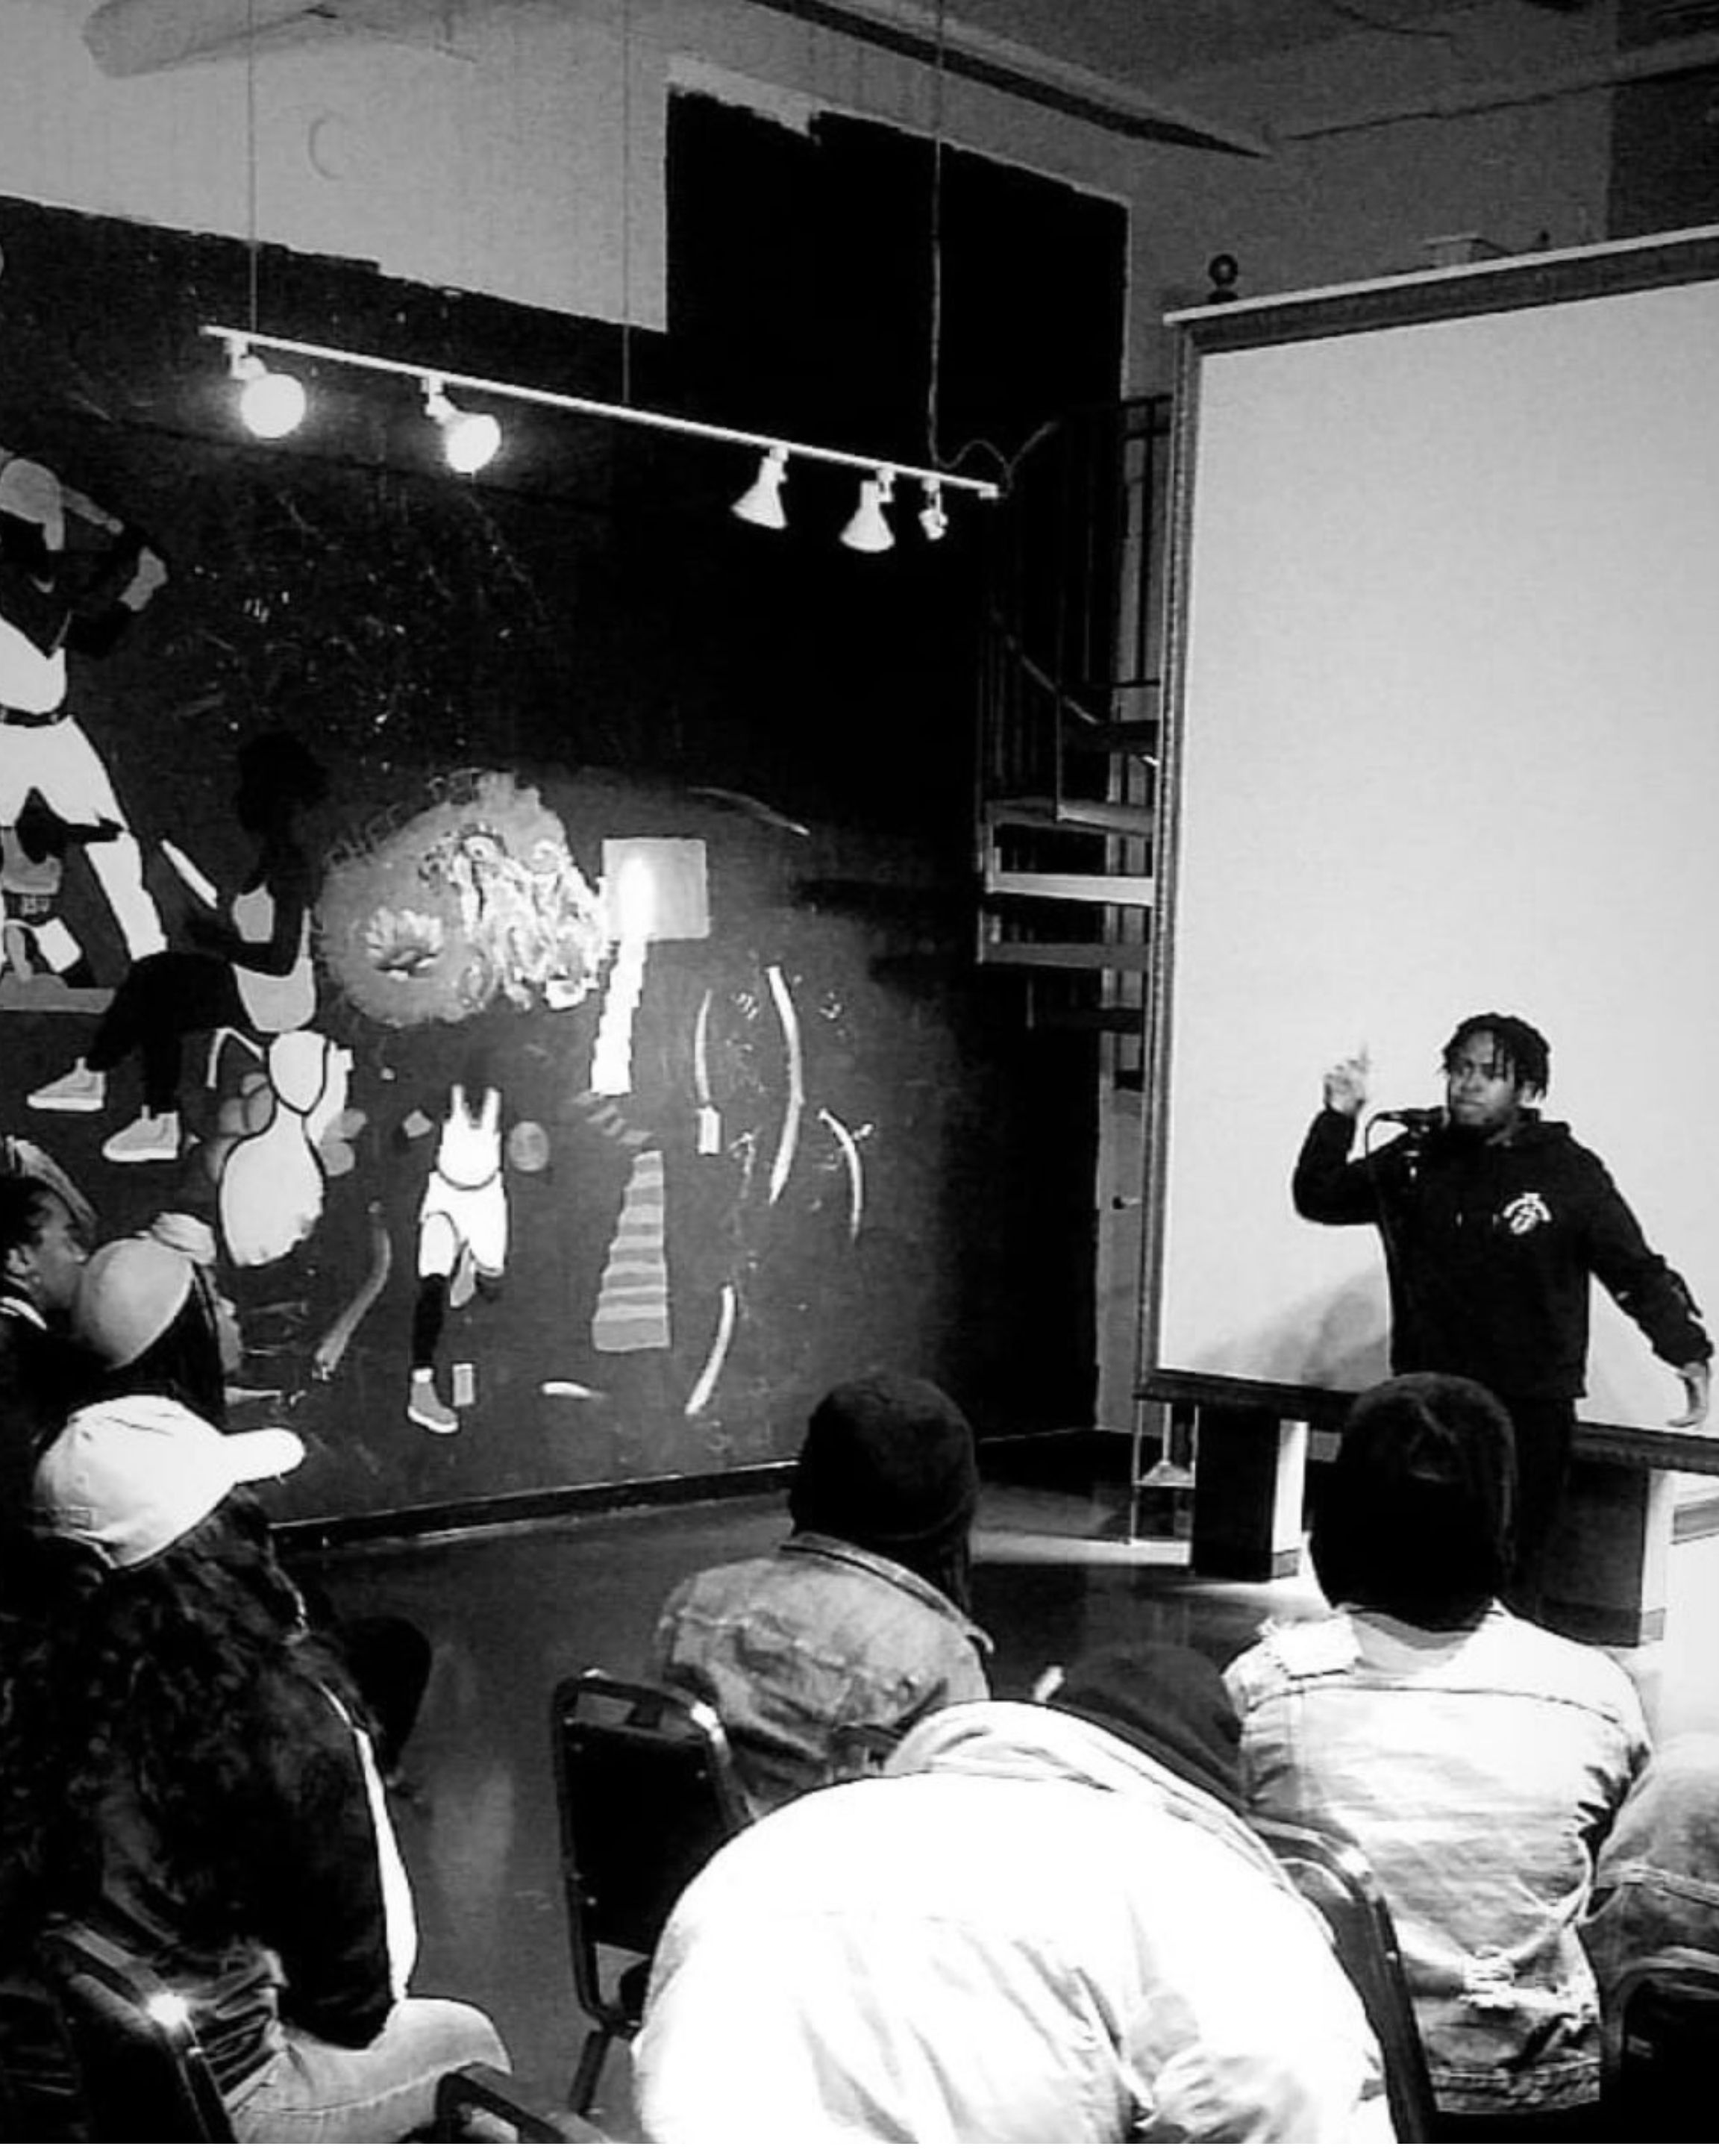
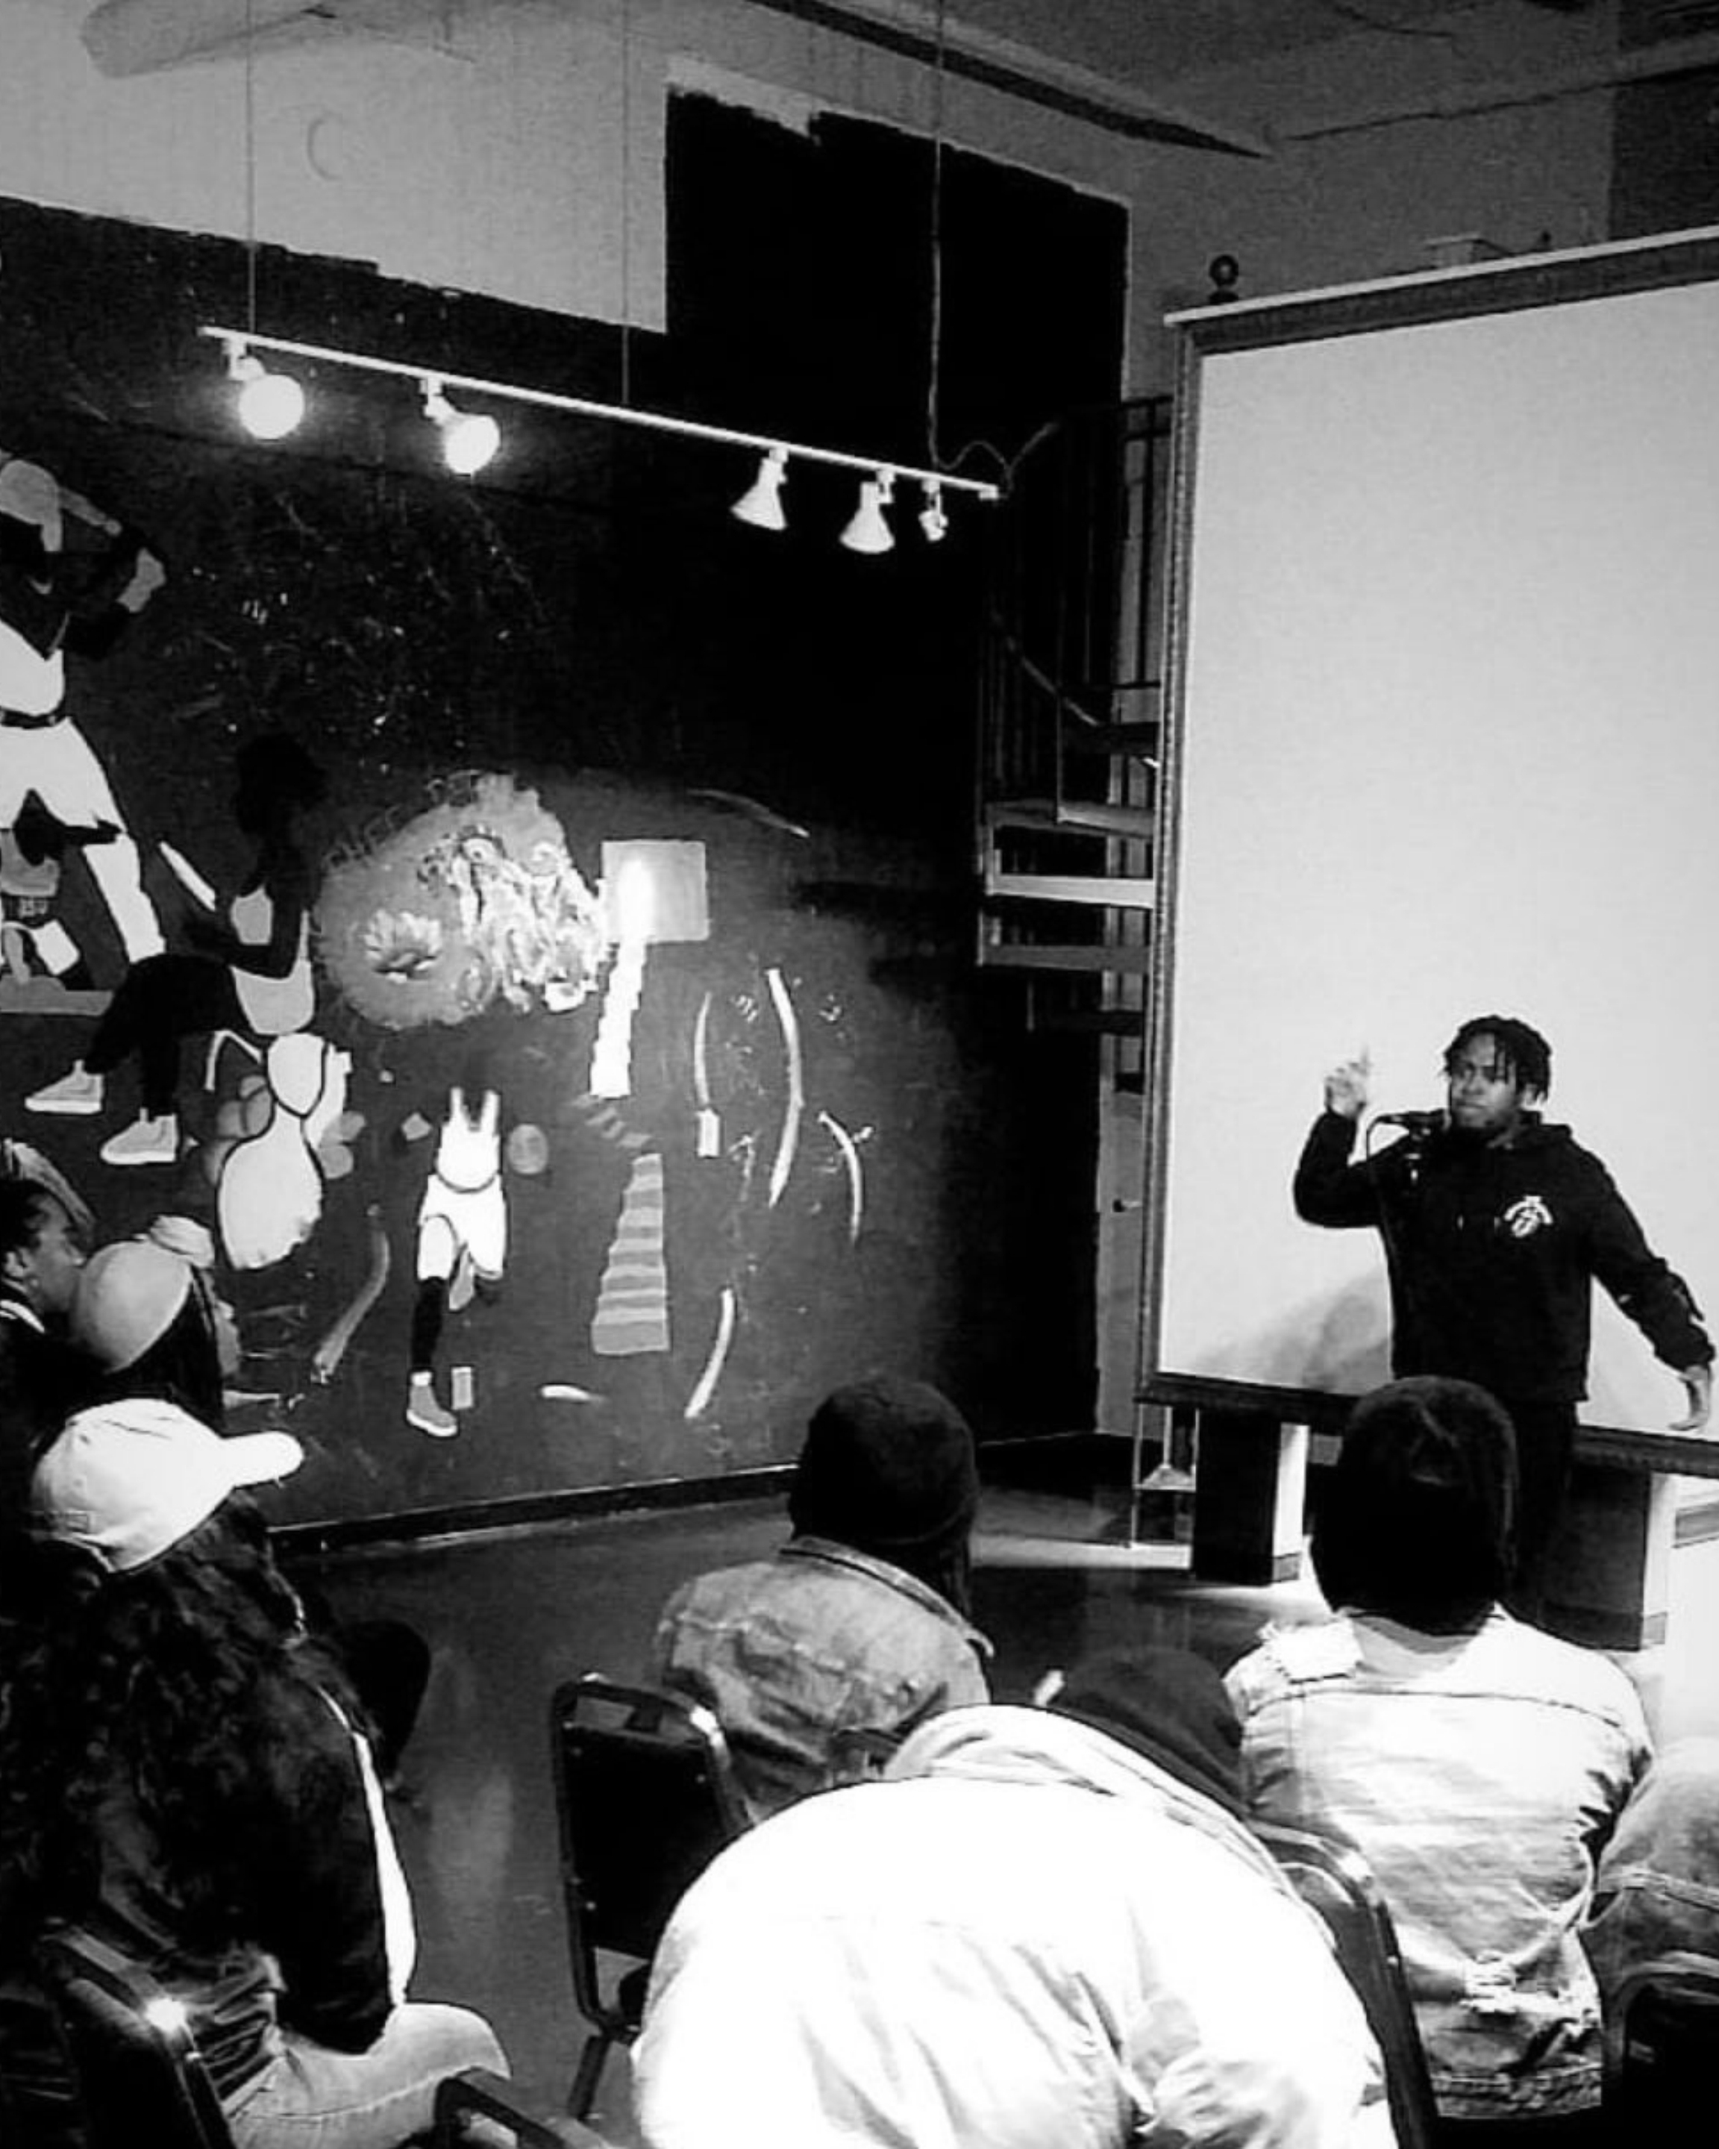
fixing photo cropping on performances 1 and 3, adding descriptive titles

diff --git a/gallery.html b/gallery.html
@@ -102,73 +102,73 @@
             <div class="col-lg-4 col-6 isotope-item filter-portrait">
               <a href="assets/img/gallery/portrait-01.jpg" class="gallery-tile glightbox" data-gallery="portrait" data-title="Photo by C. Will">
                 <img src="assets/img/gallery/portrait-01.jpg" alt="Excalibur, portrait 1" loading="lazy">
-                <span class="tile-info"><span class="tile-cat">Portrait</span><span class="tile-title">Portrait 1</span></span>
+                <span class="tile-info"><span class="tile-cat">Portrait</span><span class="tile-title">Monochrome</span></span>
               </a>
             </div>
             <div class="col-lg-4 col-6 isotope-item filter-portrait">
               <a href="assets/img/gallery/portrait-02.jpg" class="gallery-tile glightbox" data-gallery="portrait" data-title="Photo by C. Will">
                 <img src="assets/img/gallery/portrait-02.jpg" alt="Excalibur, portrait 2" loading="lazy">
-                <span class="tile-info"><span class="tile-cat">Portrait</span><span class="tile-title">Portrait 2</span></span>
+                <span class="tile-info"><span class="tile-cat">Portrait</span><span class="tile-title">Monochrome</span></span>
               </a>
             </div>
             <div class="col-lg-4 col-6 isotope-item filter-portrait">
               <a href="assets/img/gallery/portrait-03.jpg" class="gallery-tile glightbox" data-gallery="portrait" data-title="Photo by C. Will">
                 <img src="assets/img/gallery/portrait-03.jpg" alt="Excalibur, portrait 3" loading="lazy">
-                <span class="tile-info"><span class="tile-cat">Portrait</span><span class="tile-title">Portrait 3</span></span>
+                <span class="tile-info"><span class="tile-cat">Portrait</span><span class="tile-title">Monochrome</span></span>
               </a>
             </div>
             <div class="col-lg-4 col-6 isotope-item filter-performance">
               <a href="assets/img/gallery/performance-01.jpg" class="gallery-tile glightbox" data-gallery="performance" data-title="Live performance 1">
                 <img src="assets/img/gallery/performance-01.jpg" alt="Excalibur, live performance 1" loading="lazy">
-                <span class="tile-info"><span class="tile-cat">Performance</span><span class="tile-title">Live performance 1</span></span>
+                <span class="tile-info"><span class="tile-cat">Performance</span><span class="tile-title">OUTSPOKEN Arts Show</span></span>
               </a>
             </div>
             <div class="col-lg-4 col-6 isotope-item filter-performance">
               <a href="assets/img/gallery/performance-02.jpg" class="gallery-tile glightbox" data-gallery="performance" data-title="Live performance 2">
                 <img src="assets/img/gallery/performance-02.jpg" alt="Excalibur, live performance 2" loading="lazy">
-                <span class="tile-info"><span class="tile-cat">Performance</span><span class="tile-title">Live performance 2</span></span>
+                <span class="tile-info"><span class="tile-cat">Performance</span><span class="tile-title">OUTSPOKEN Arts Show</span></span>
               </a>
             </div>
             <div class="col-lg-4 col-6 isotope-item filter-performance">
               <a href="assets/img/gallery/performance-03.jpg" class="gallery-tile glightbox" data-gallery="performance" data-title="Photo by C. Will">
                 <img src="assets/img/gallery/performance-03.jpg" alt="Excalibur, live performance 3" loading="lazy">
-                <span class="tile-info"><span class="tile-cat">Performance</span><span class="tile-title">Live performance 3</span></span>
+                <span class="tile-info"><span class="tile-cat">Performance</span><span class="tile-title">JSU Fashion Week Performance</span></span>
               </a>
             </div>
             <div class="col-lg-4 col-6 isotope-item filter-portrait">
               <a href="assets/img/gallery/portrait-04.jpg" class="gallery-tile glightbox" data-gallery="portrait" data-title="Photo by C. Will">
                 <img src="assets/img/gallery/portrait-04.jpg" alt="Excalibur, portrait 4" loading="lazy">
-                <span class="tile-info"><span class="tile-cat">Portrait</span><span class="tile-title">Portrait 4</span></span>
+                <span class="tile-info"><span class="tile-cat">Portrait</span><span class="tile-title">Planet Hollywood</span></span>
               </a>
             </div>
             <div class="col-lg-4 col-6 isotope-item filter-portrait">
               <a href="assets/img/gallery/portrait-05.jpg" class="gallery-tile glightbox" data-gallery="portrait" data-title="Photo by C. Will">
                 <img src="assets/img/gallery/portrait-05.jpg" alt="Excalibur, portrait 5" loading="lazy">
-                <span class="tile-info"><span class="tile-cat">Portrait</span><span class="tile-title">Portrait 5</span></span>
+                <span class="tile-info"><span class="tile-cat">Portrait</span><span class="tile-title">Planet Hollywood</span></span>
               </a>
             </div>
             <div class="col-lg-4 col-6 isotope-item filter-portrait">
               <a href="assets/img/gallery/portrait-06.jpg" class="gallery-tile glightbox" data-gallery="portrait" data-title="Photo by C. Will">
                 <img src="assets/img/gallery/portrait-06.jpg" alt="Excalibur, portrait 6" loading="lazy">
-                <span class="tile-info"><span class="tile-cat">Portrait</span><span class="tile-title">Portrait 6</span></span>
+                <span class="tile-info"><span class="tile-cat">Portrait</span><span class="tile-title">Planet Hollywood</span></span>
               </a>
             </div>
             <div class="col-lg-4 col-6 isotope-item filter-portrait">
               <a href="assets/img/gallery/portrait-07.jpg" class="gallery-tile glightbox" data-gallery="portrait" data-title="Photo by C. Will">
                 <img src="assets/img/gallery/portrait-07.jpg" alt="Excalibur, portrait 7" loading="lazy">
-                <span class="tile-info"><span class="tile-cat">Portrait</span><span class="tile-title">Portrait 7</span></span>
+                <span class="tile-info"><span class="tile-cat">Portrait</span><span class="tile-title">MMA Photowalk</span></span>
               </a>
             </div>
             <div class="col-lg-4 col-6 isotope-item filter-portrait">
               <a href="assets/img/gallery/portrait-08.jpg" class="gallery-tile glightbox" data-gallery="portrait" data-title="Photo by C. Will">
                 <img src="assets/img/gallery/portrait-08.jpg" alt="Excalibur, portrait 8" loading="lazy">
-                <span class="tile-info"><span class="tile-cat">Portrait</span><span class="tile-title">Portrait 8</span></span>
+                <span class="tile-info"><span class="tile-cat">Portrait</span><span class="tile-title">MMA Photowalk</span></span>
               </a>
             </div>
             <div class="col-lg-4 col-6 isotope-item filter-portrait">
               <a href="assets/img/gallery/portrait-09.jpg" class="gallery-tile glightbox" data-gallery="portrait" data-title="Photo by C. Will">
                 <img src="assets/img/gallery/portrait-09.jpg" alt="Excalibur, portrait 9" loading="lazy">
-                <span class="tile-info"><span class="tile-cat">Portrait</span><span class="tile-title">Portrait 9</span></span>
+                <span class="tile-info"><span class="tile-cat">Portrait</span><span class="tile-title">MMA Photowalk</span></span>
               </a>
             </div>
 
